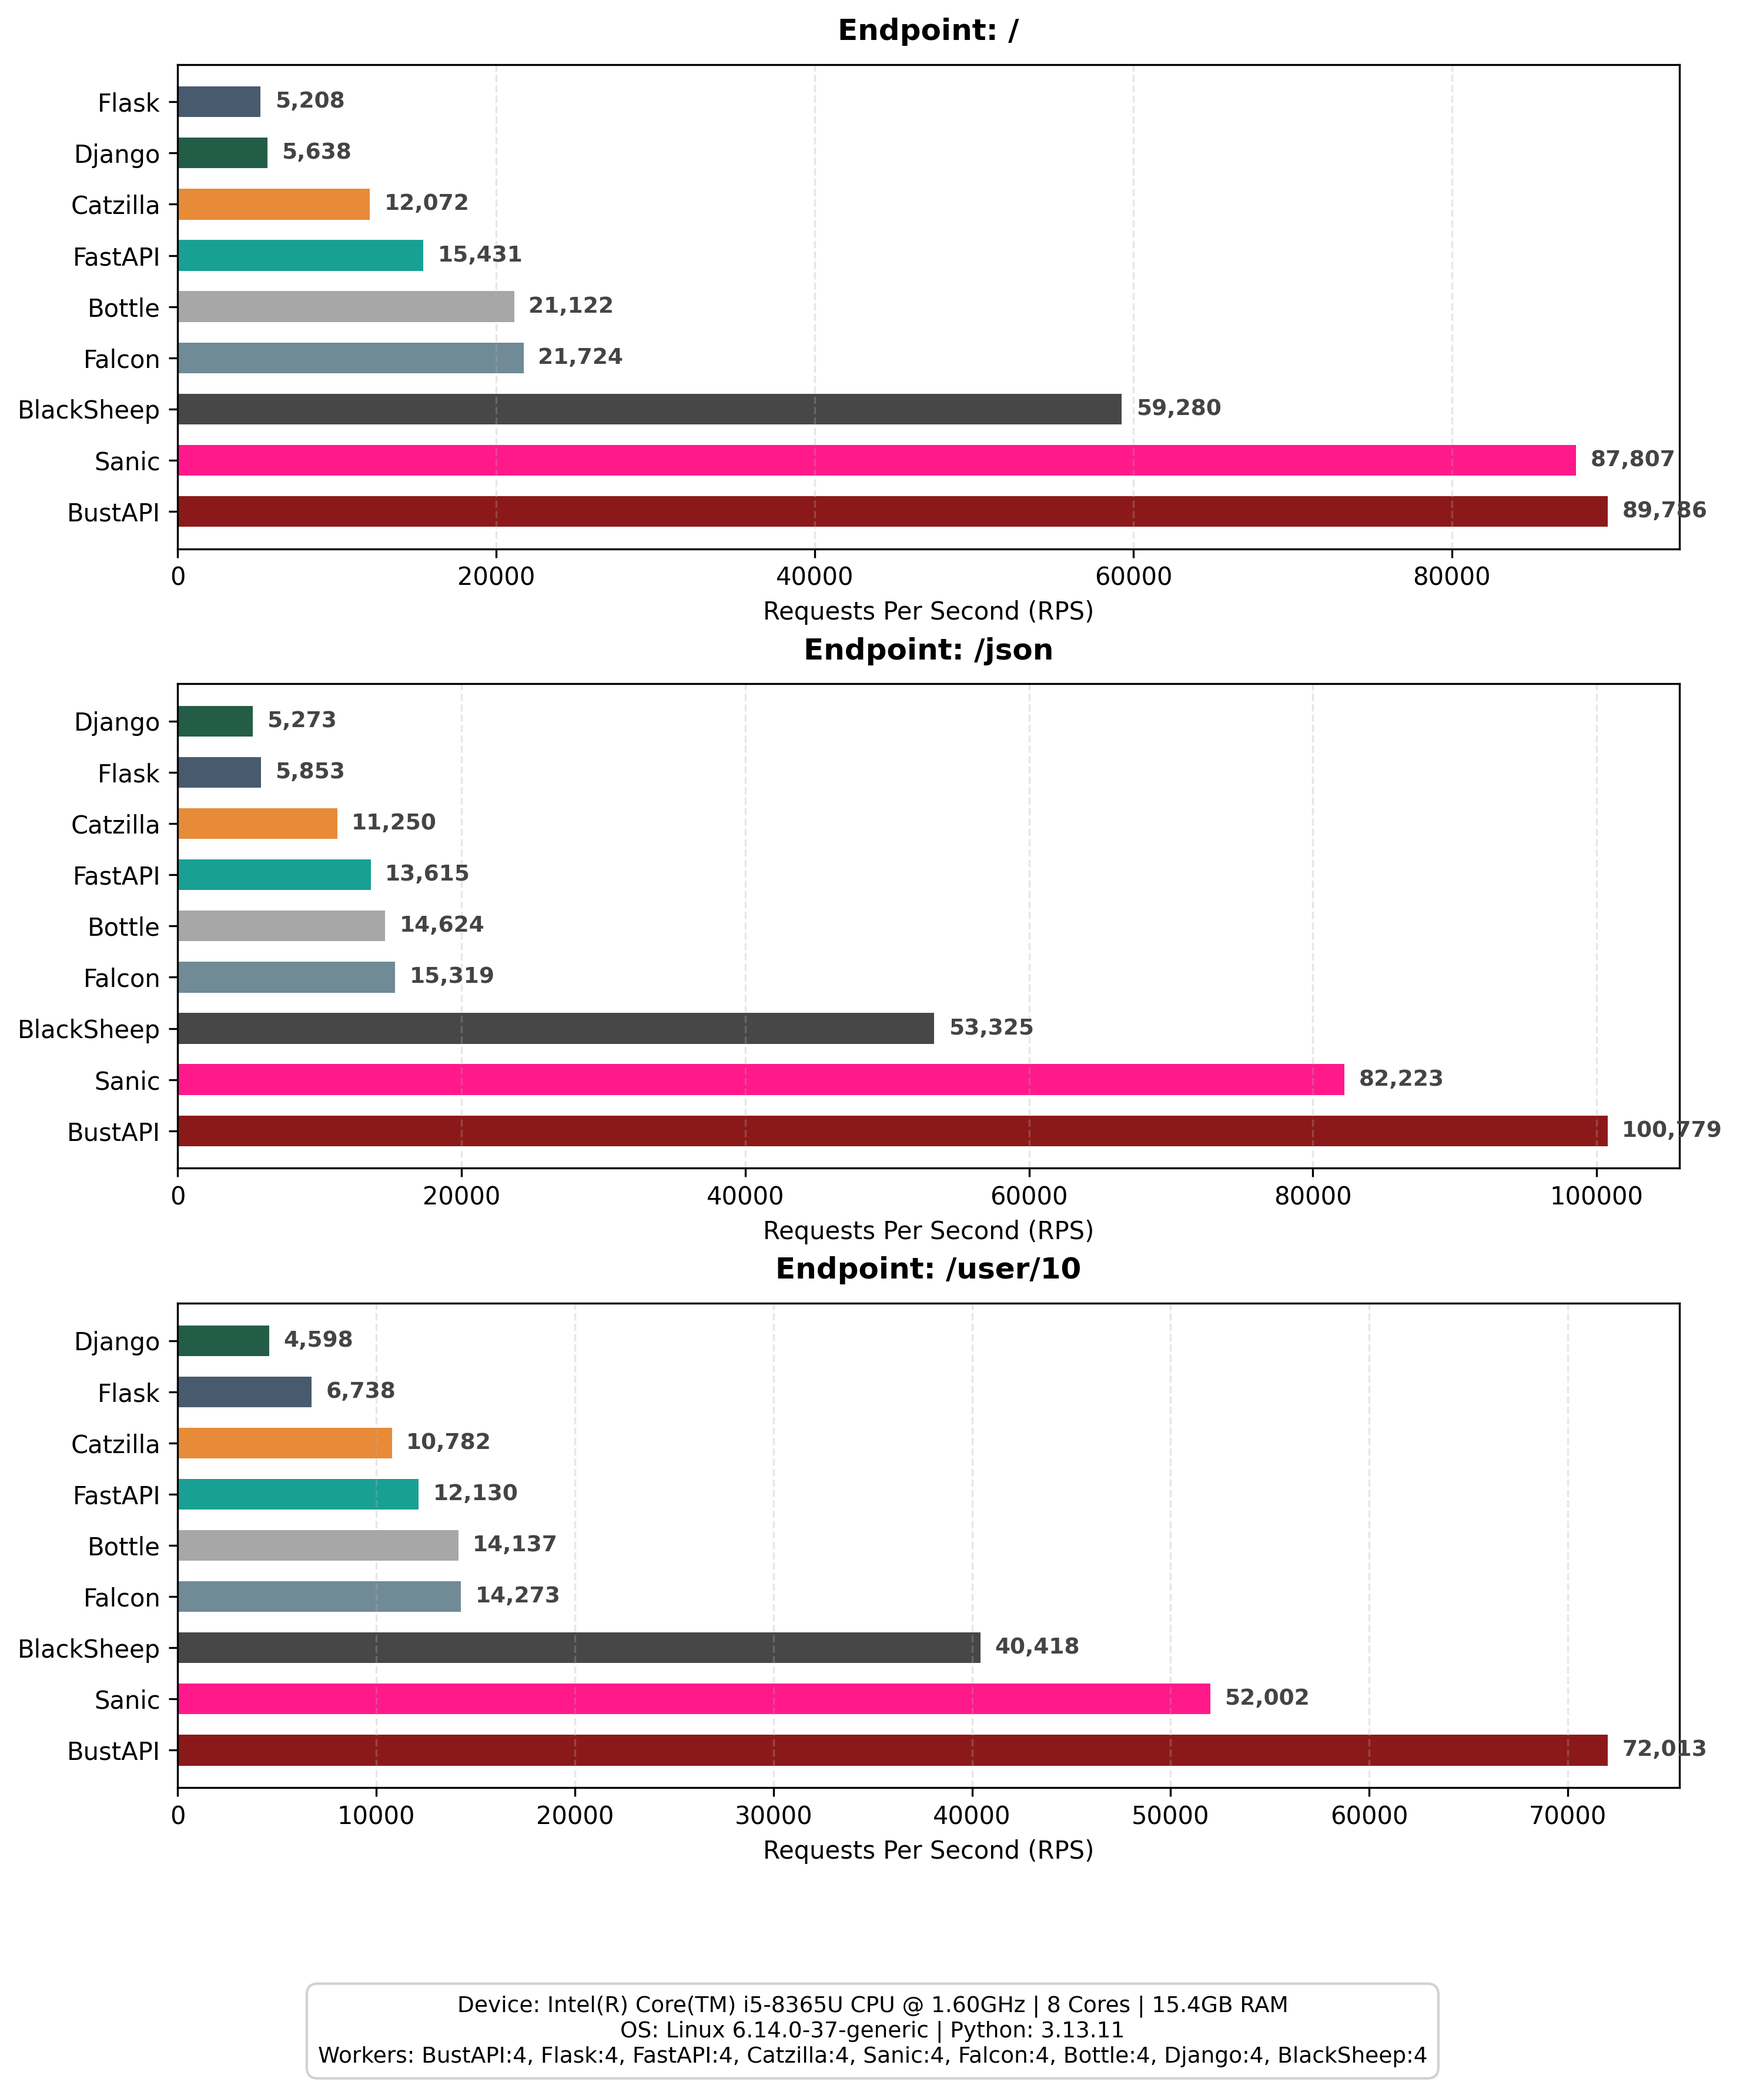
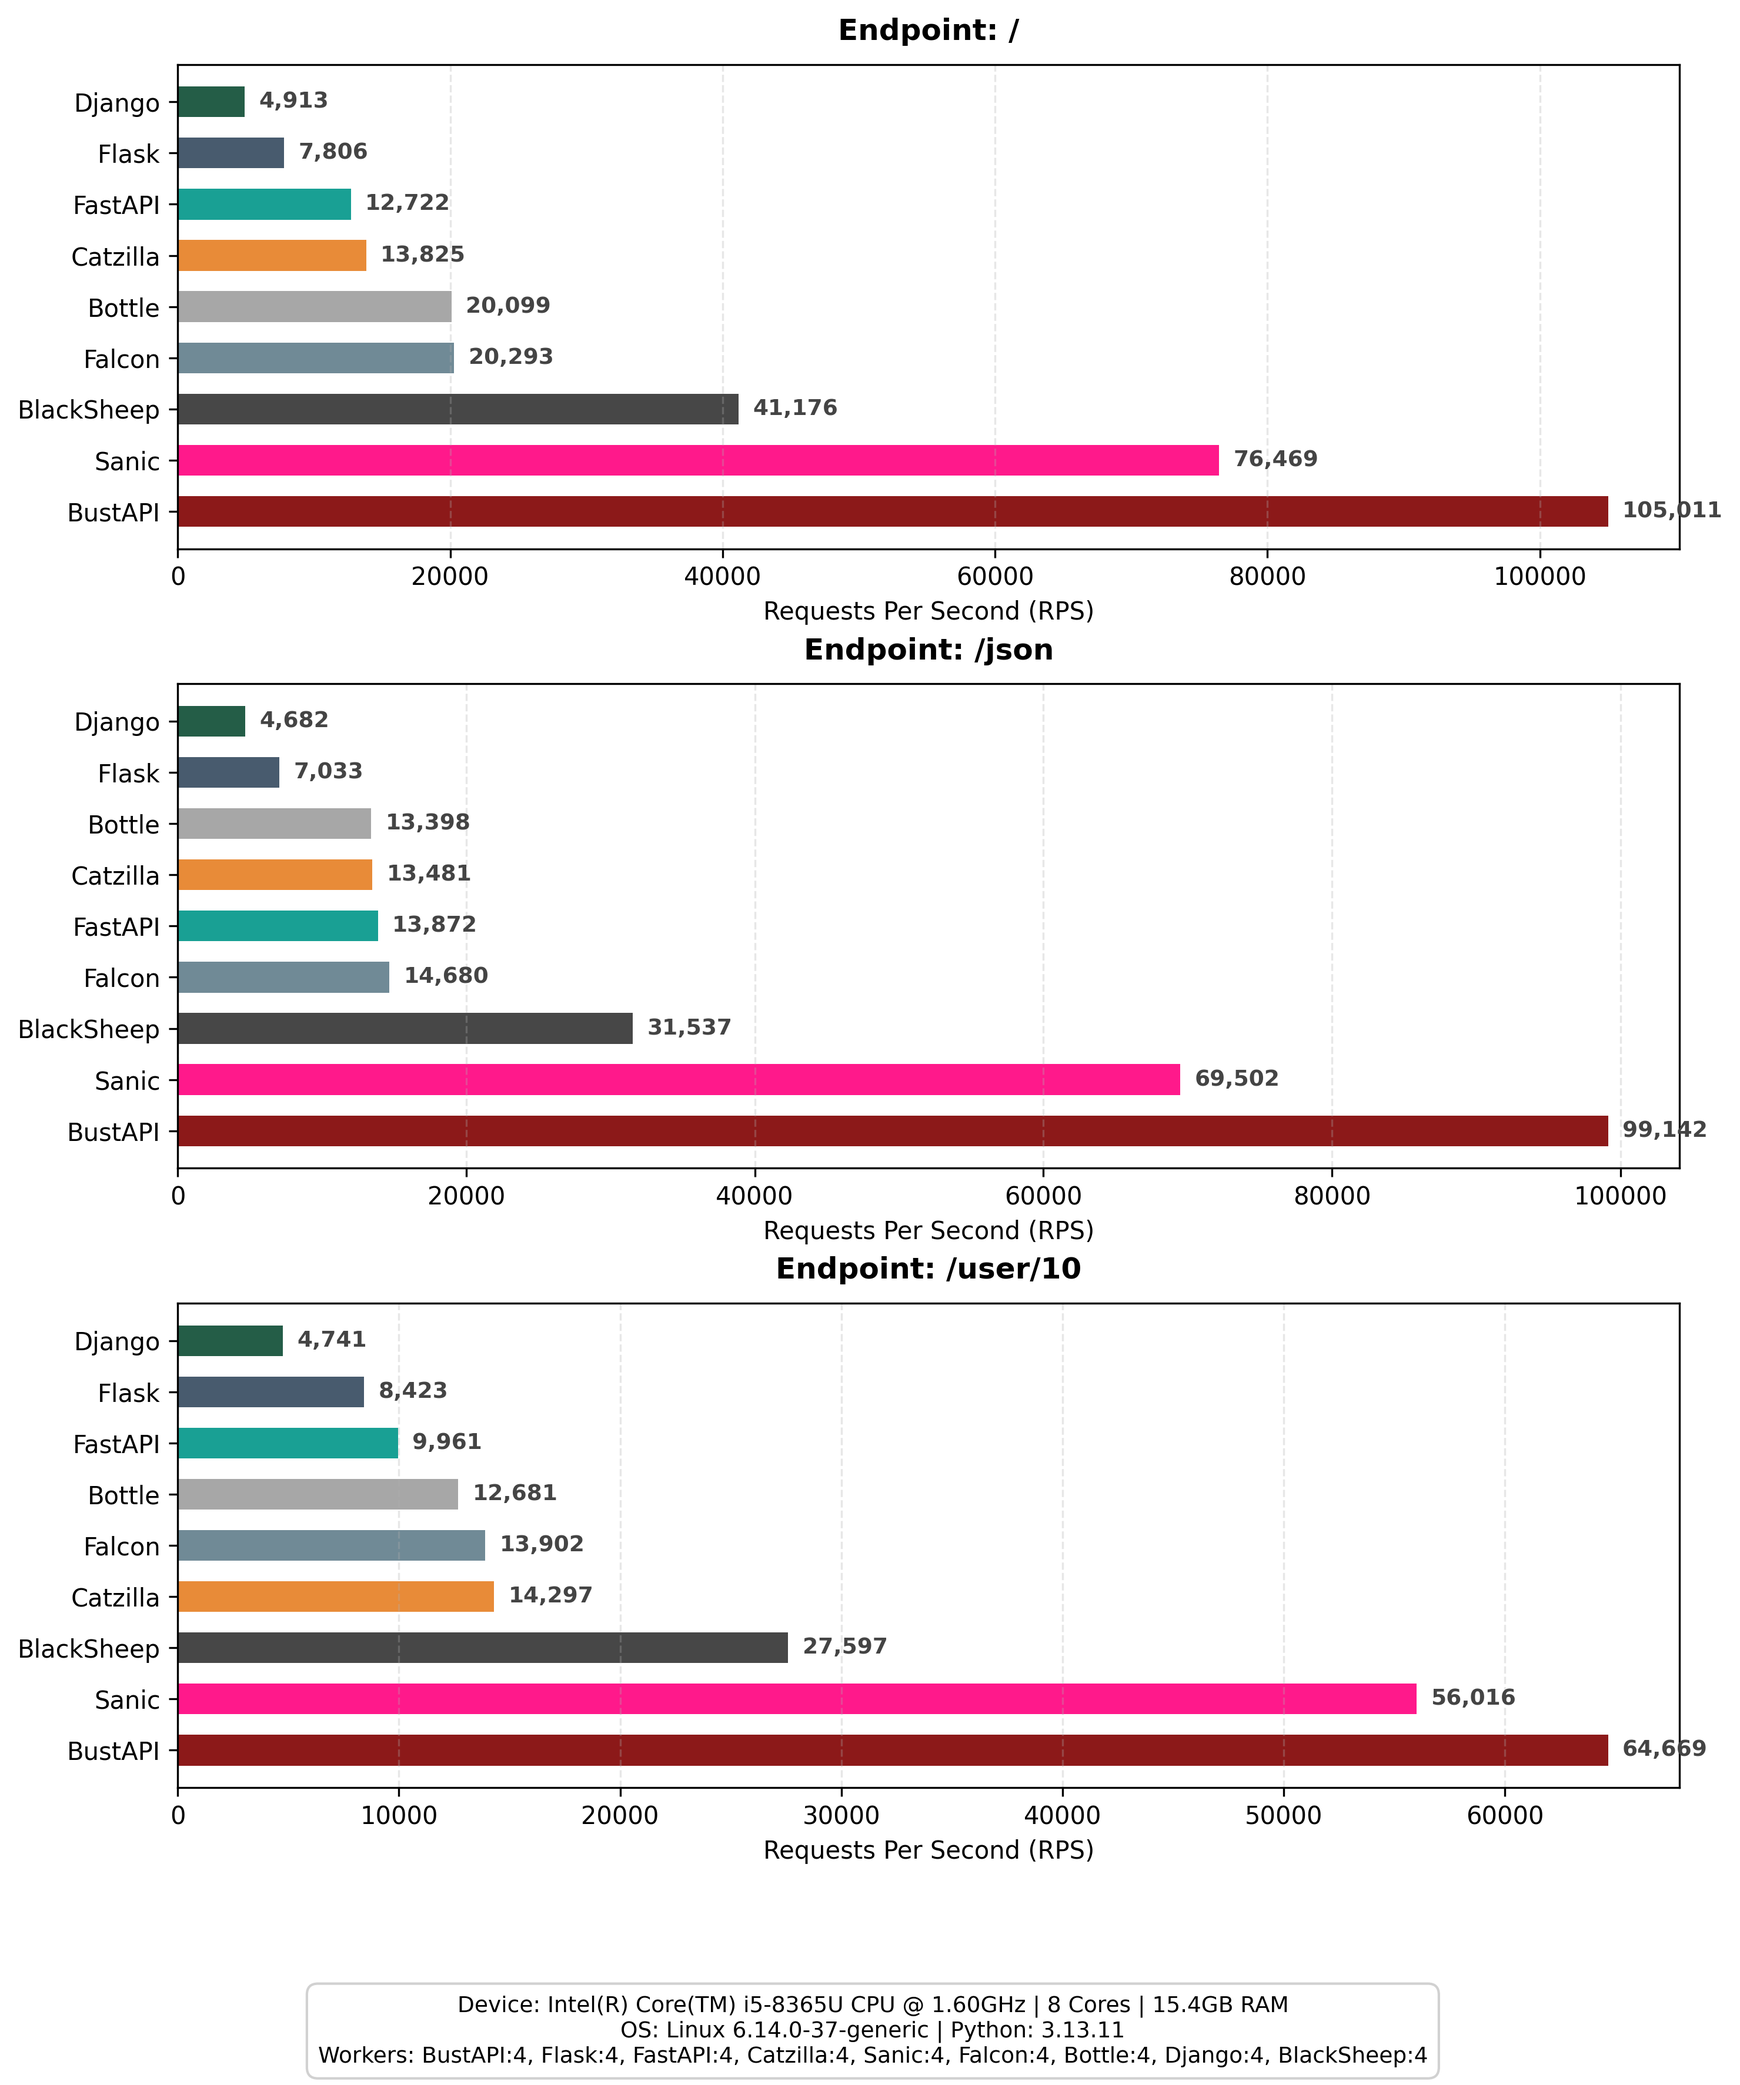
docs: Update README & CHANGELOG with cross-platform benchmarks and platform recommendations

diff --git a/README.md b/README.md
@@ -132,18 +132,67 @@ Supports `int`, `float`, `str`, and `path` parameter types.
 
 ## Benchmarks
 
-Tested on Python 3.13, Intel i5-8365U (8 cores), Ubuntu Linux:
+<p align="center">
+  <img src="benchmarks/rps_97k_comparison.png" alt="BustAPI vs Other Frameworks" width="700">
+</p>
 
-| Framework | Requests/sec | Memory |
-|:----------|-------------:|-------:|
-| **BustAPI** | **18,500** | **45 MB** |
-| Catzilla | 11,170 | 1,496 MB |
-| Flask (4 workers) | 4,988 | 159 MB |
-| FastAPI (4 workers) | 2,000 | 232 MB |
+### Cross-Platform Performance (v0.8.0)
 
-BustAPI achieves **9x higher throughput** than FastAPI with **5x less memory**.
+| Platform | RPS (Root) | RPS (JSON) | Mode |
+|:---------|----------:|----------:|:-----|
+| **Linux** | **105,012** | **99,142** | Multiprocessing (SO_REUSEPORT) |
+| macOS | 35,560 | - | Single-process |
+| Windows | 17,772 | 17,844 | Single-process |
 
-> 💡 **Want more speed?** Use `@app.turbo_route()` for simple endpoints to hit **35k+ RPS**.
+### Framework Comparison (Linux, 4 workers)
+
+| Framework | Requests/sec | Avg Latency | Memory |
+|:----------|-------------:|------------:|-------:|
+| **BustAPI** | **105,012** | **1.00ms** | **105 MB** |
+| Sanic | 76,469 | 1.32ms | 243 MB |
+| BlackSheep | 41,176 | 2.48ms | 219 MB |
+| Flask | 7,806 | 12.69ms | 160 MB |
+| FastAPI | 12,723 | 7.95ms | 254 MB |
+
+> 💡 **Maximum Performance:** Use `@app.turbo_route()` with `cache_ttl` for **~140,000 RPS** on cached endpoints!
+
+<p align="center">
+  <img src="benchmarks/rps_process_comparison.png" alt="BustAPI Multiprocessing Scaling" width="600">
+</p>
+
+---
+
+## Platform Support
+
+### 🐧 Linux (Recommended for Production)
+
+Linux provides the **best performance** with native multiprocessing via `SO_REUSEPORT`:
+- **100,000+ RPS** with 4 workers
+- Kernel-level load balancing across processes
+- Optimal for production deployments
+
+```bash
+# Production deployment on Linux
+python app.py  # Automatically uses multiprocessing
+```
+
+### 🍎 macOS (Development)
+
+Fully supported for development. Single-process mode (~35k RPS):
+```bash
+pip install bustapi
+python app.py
+```
+
+### 🪟 Windows (Development)
+
+Fully supported for development. Single-process mode (~17k RPS):
+```bash
+pip install bustapi
+python app.py
+```
+
+> ⚠ **Production Recommendation:** For maximum performance, deploy on **Linux servers**. macOS and Windows are ideal for development but lack the multiprocessing optimizations available on Linux.
 
 ---
 

diff --git a/CHANGELOG.md b/CHANGELOG.md
@@ -47,10 +47,14 @@ All notable changes to this project will be documented here.
 
 - **Cross-Platform Support (Issue #9)**:
   - New `python/bustapi/multiprocess.py` module.
+  - New `ci-multiplatform.yml` for automated cross-platform testing with `oha` benchmarks.
+  - **CI Benchmark Results:**
+    - **Linux**: 55,726 RPS (CI runner) / 105,012 RPS (local)
+    - **macOS**: 35,560 RPS (single-process)
+    - **Windows**: 17,772 RPS (single-process)
   - Platform-specific behavior:
     - **Linux**: Full multiprocessing with `SO_REUSEPORT` (100k+ RPS)
-    - **macOS/Windows**: Single-process fallback (Rust still blazing fast!)
-  - Added `ci-multiplatform.yml` for cross-platform testing.
+    - **macOS/Windows**: Single-process fallback (Rust still 3x faster than Flask!)
 
 - **Cached Turbo Routes**:
   - New built-in caching for turbo routes: `@app.turbo_route("/", cache_ttl=60)`.
